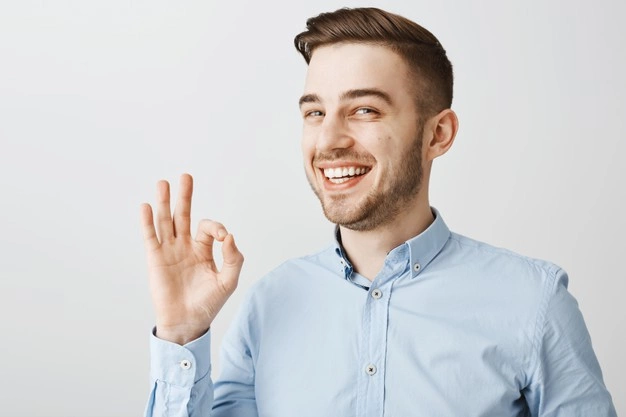
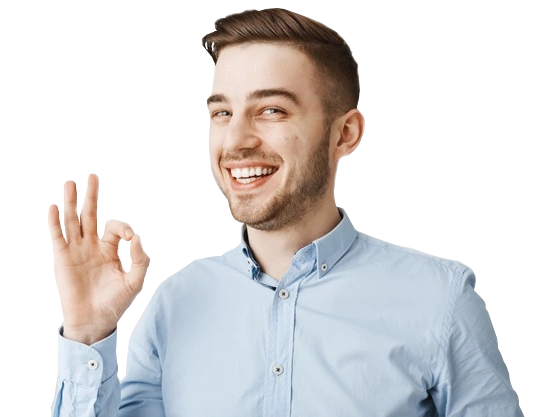
Changed photo to alfa background

diff --git a/html/css/styles.css b/html/css/styles.css
@@ -1,4 +1,5 @@
 @import url('https://fonts.googleapis.com/css2?family=Dancing+Script:wght@600&display=swap');
+@import url('https://fonts.googleapis.com/css2?family=Baloo+Bhaijaan+2:wght@500&display=swap');
 
 
 :root{
@@ -18,6 +19,8 @@
     --fontFamilyNavBar: Verdana, Geneva, Tahoma, sans-serif;
     --fontFamilyMain: 'Trebuchet MS', 'Lucida Sans Unicode', 'Lucida Grande', 'Lucida Sans', Arial, sans-serif;
     --fontFamilyParallax: 'Dancing Script';
+    --fontFamilyContainer: 'Baloo Bhaijaan 2';
+
 }
 
 * {
@@ -182,7 +185,7 @@ body{
 }
 
 .container_text{
-    font-family: var(--fontFamilyMain);
+    font-family: var(--fontFamilyContainer);
     color: var(--addColor);
     font-size: 50px;
     display: flex;
@@ -218,6 +221,8 @@ body{
     display: flex;
     justify-content: center;
     background-color: var(--secColor);
+
+    box-shadow: 0 2px 10px rgb(0 0 0 / 20%);
 }
 
 .team_photo_section{
@@ -297,7 +302,7 @@ body{
     border-bottom-left-radius: 50px;
     border-bottom-right-radius: 50px;
 
-    margin-right: 10px;
+    margin-right: 50px;
 }
 
 .speech_box2{
@@ -308,13 +313,18 @@ body{
     border-bottom-left-radius: 50px;
     border-bottom-right-radius: 50px;
 
-    margin-left: 10px;
+    margin-left: 50px;
 }
 
 .speech_text, .speech_author{
     position: absolute;
     color: var(--fontColor);
     font-size: 25px;
+}
+
+.speech_text{
+    margin-right: 40px;
+    font-family: var(--fontFamilyContainer);
 }
 
 .speech_author{
@@ -382,7 +392,7 @@ footer {
     align-items: center;
     justify-content: center;
     gap: 15px;
-    margin-top: 50px;
+    margin-top: 100px;
 }
 
 footer .footer_div{

diff --git a/html/index.php b/html/index.php
@@ -15,6 +15,7 @@
     <div class="header">
         <span class="hEmail">Email: adels123456@gmail.com</span>
         <span class="hTel">Nr. tel: 777 649 754</span>
+        <span class="hTel">Otwarte: pon-pt 8-19</span>
     </div>
 
     <div class="login_bar">
@@ -98,11 +99,13 @@
                         <img src="css/okayDude.png">
                     </div>
                     <div class="speech_box1">
-                        <span class="speech_text"> "Naprawde giga szef i polecam ich, dużo płacą, i wgl serio git00wa" </span>
+                        <span class="speech_text">
+                             "Mój ostatni zabieg był bezbolesny, a różnicę widzę od razu!"
+                        </span>
                         <span class="speech_author"> ~Patryk P. </span>
                     </div>
                     <div class="speech_box2">
-                        <span class="speech_text"> "Nie lubie ich smierdza iwgl naprawde glupie to wszystko pomocy nie lubie robic stron internetowcych" </span>
+                        <span class="speech_text"> "Ząb przestał mnie boleć zaraz po wizycie! Zdolności waszych dentystów są nie z tej Ziemi!" </span>
                         <span class="speech_author"> ~Hubert M. </span>
                     </div>
                     <div class="photo_box2">
